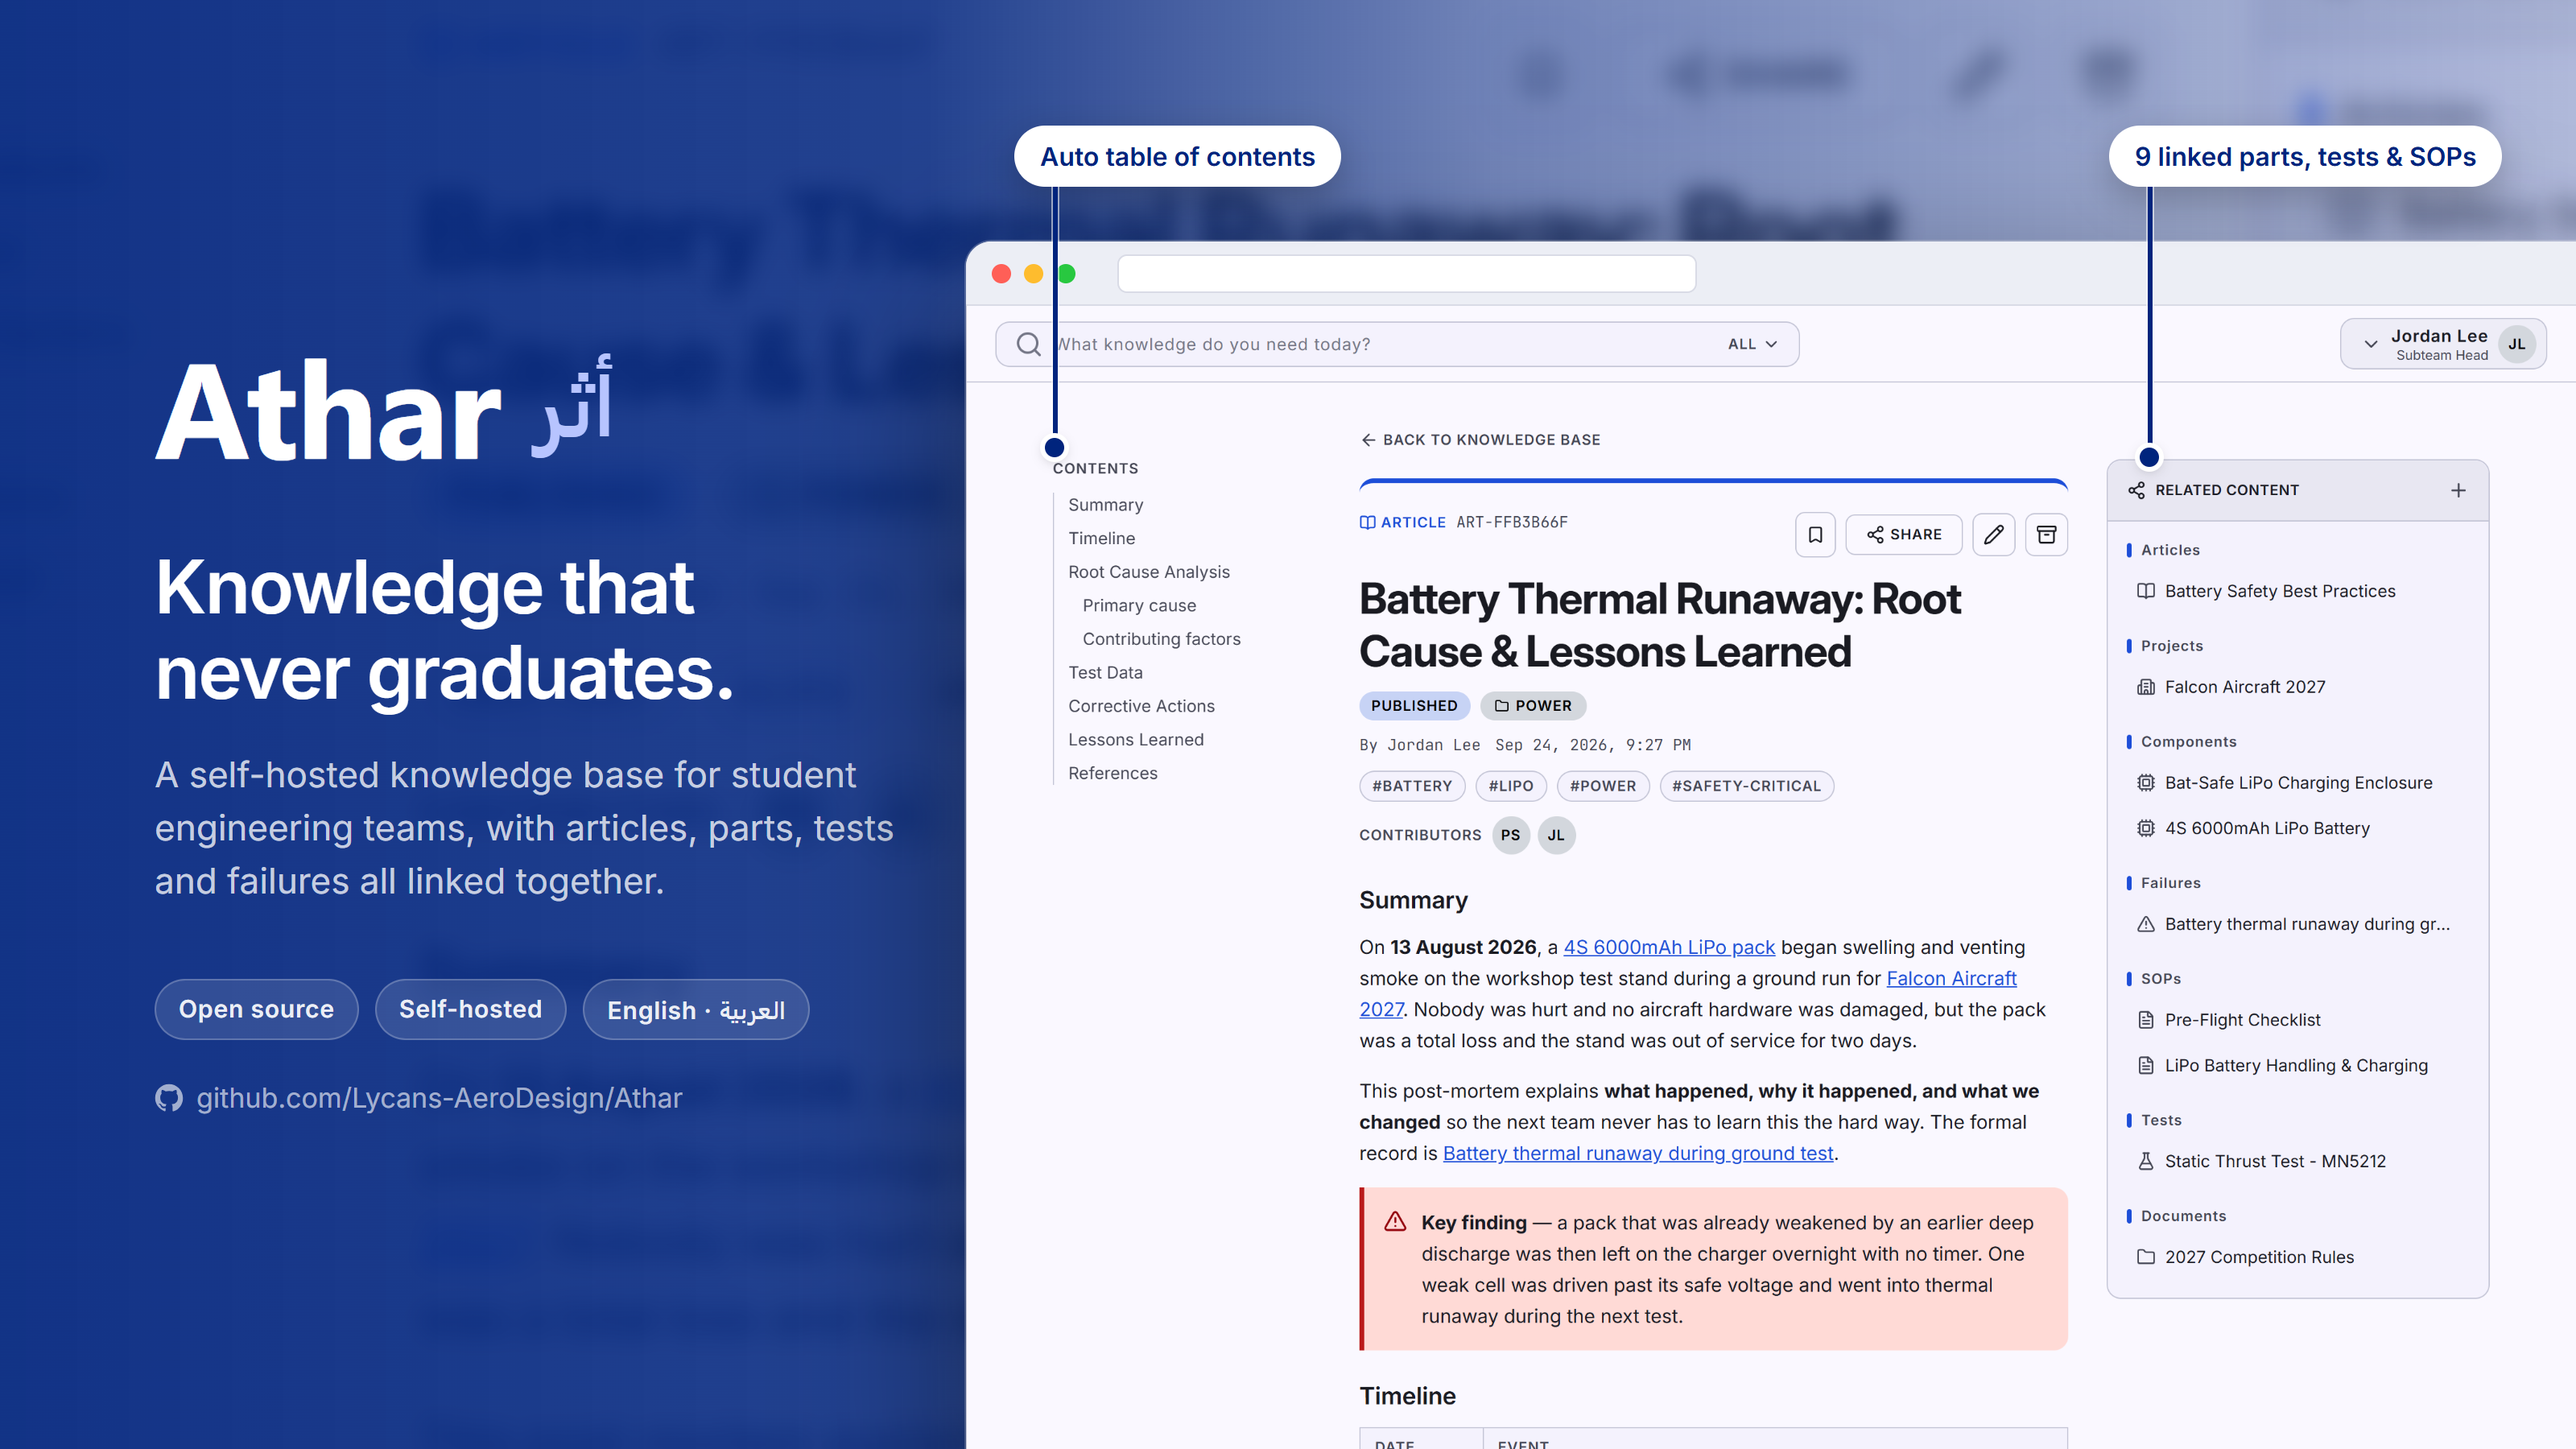
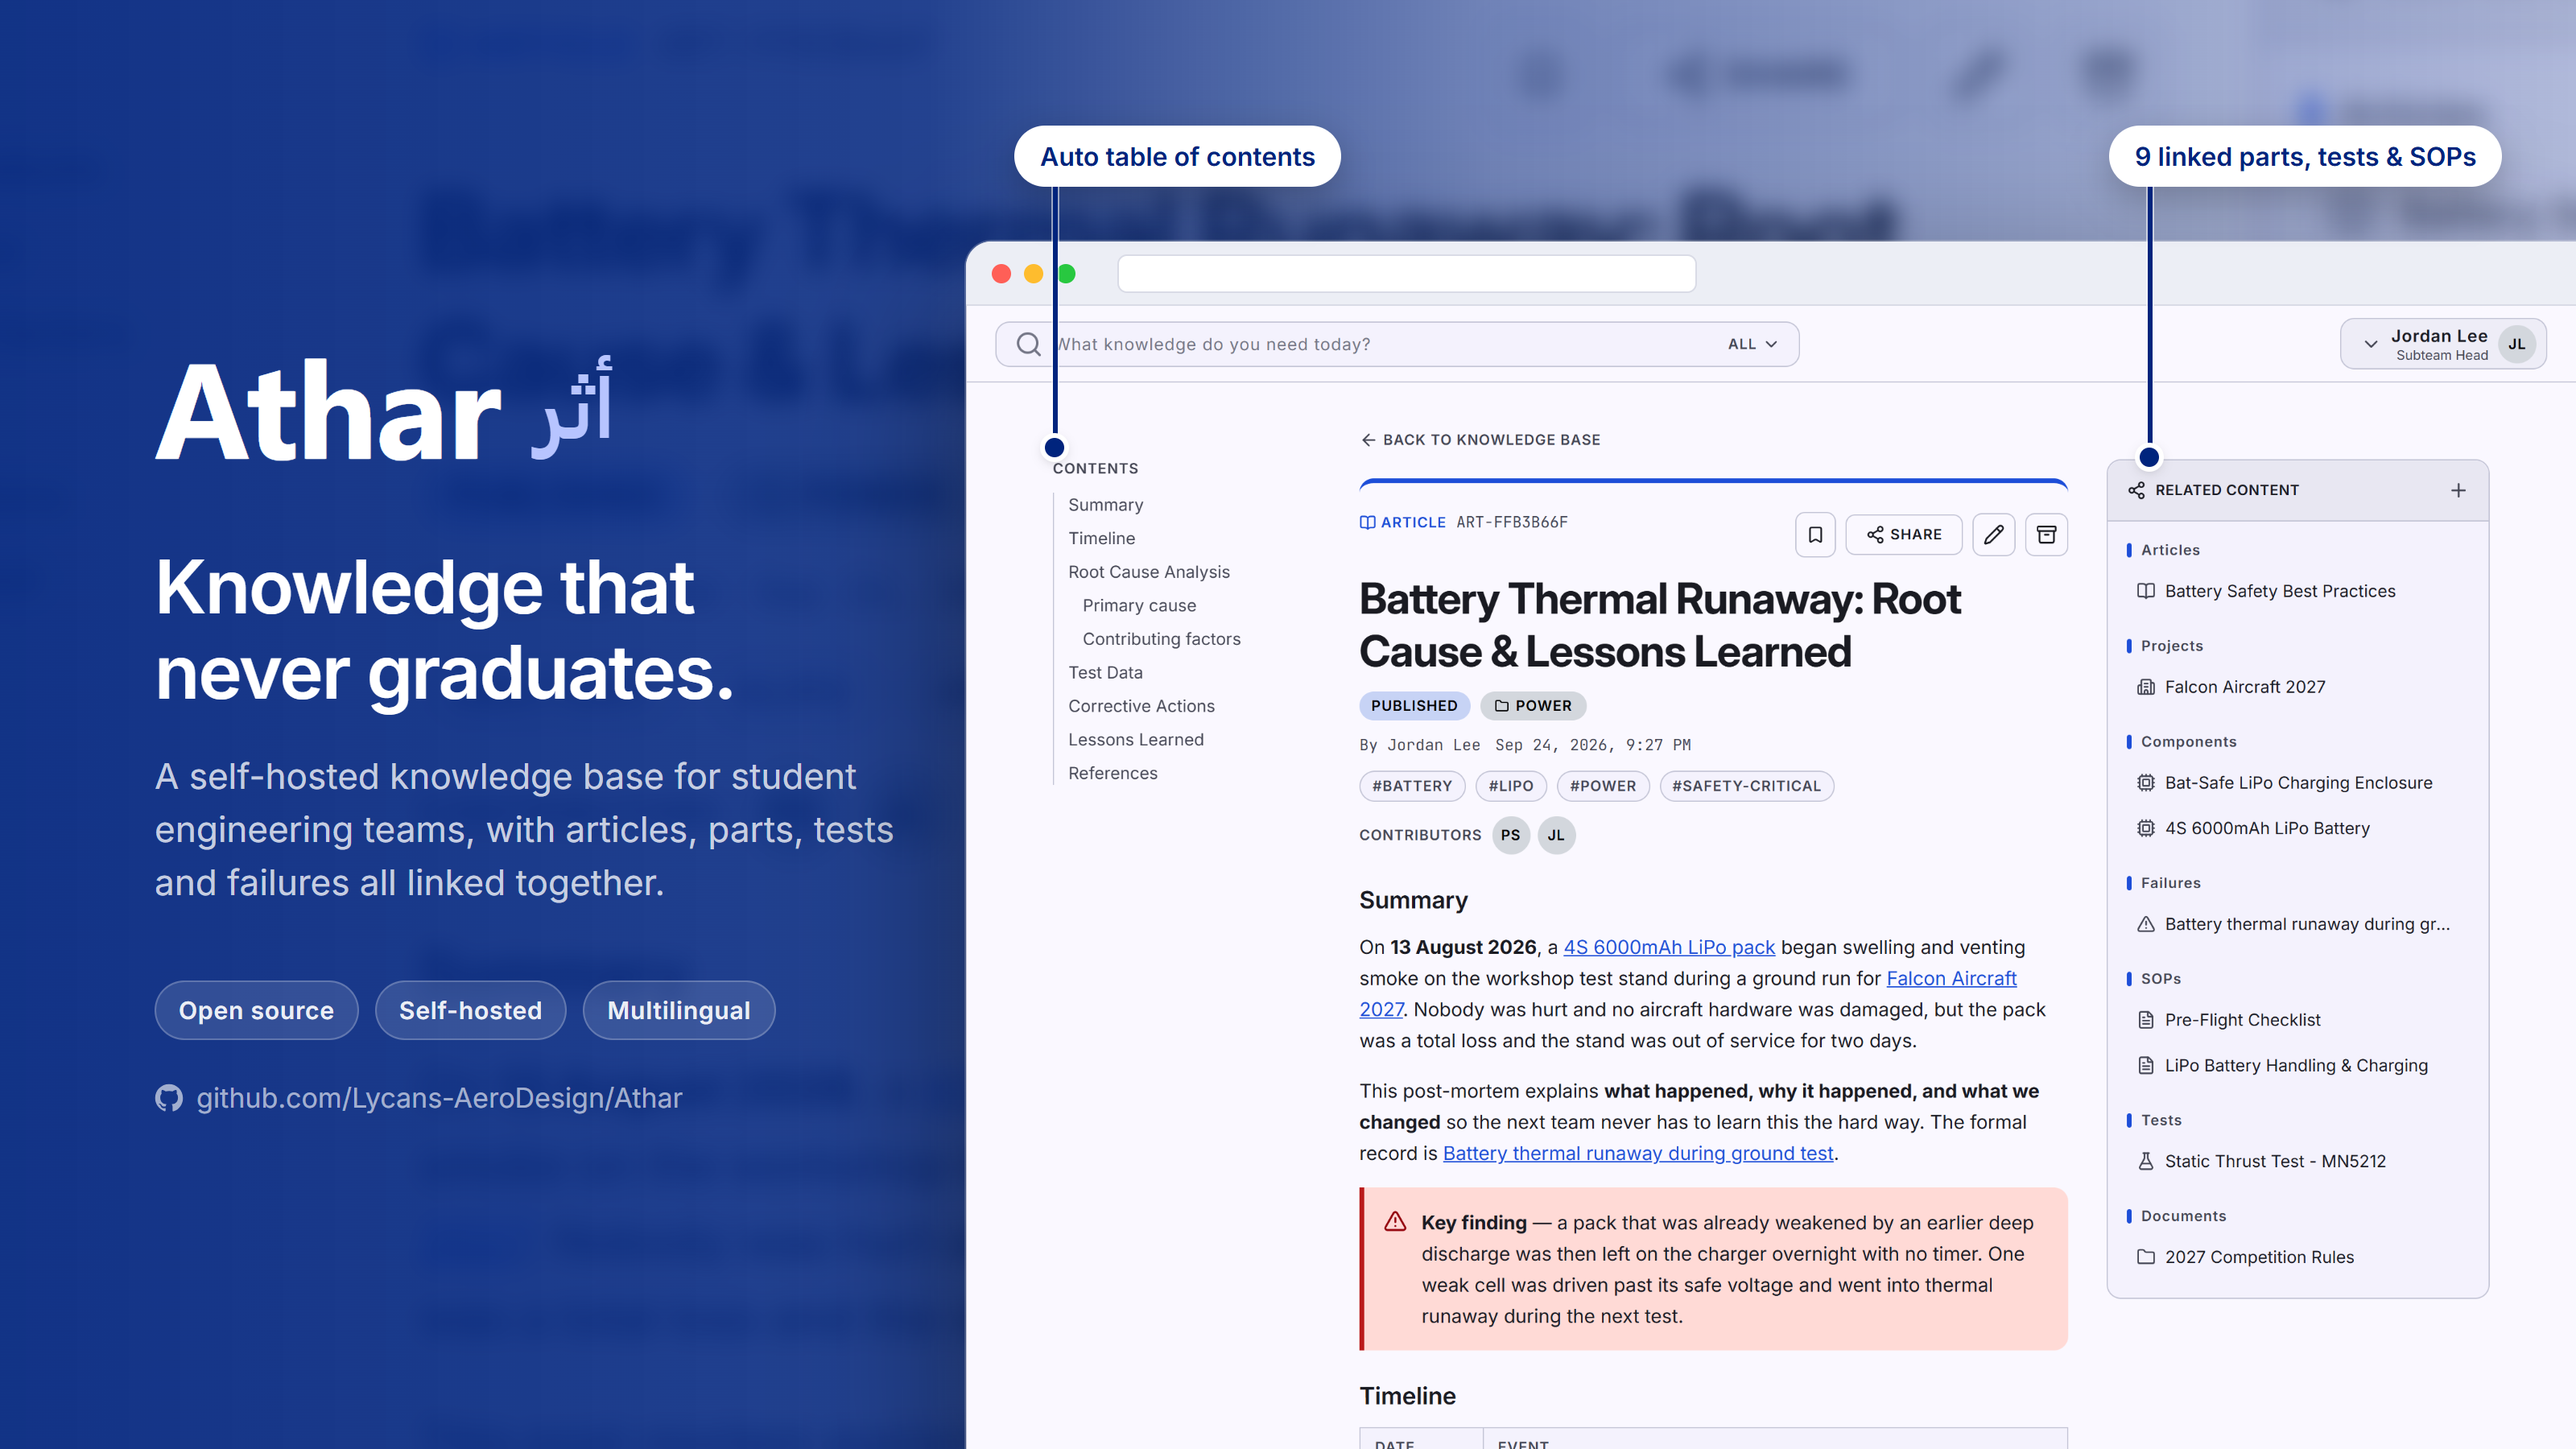
fix(frontend): resolve eslint rules for hooks, a11y, and unused imports
Resolve react-hooks/set-state-in-effect in CurriculumList, AuthenticatedImage, and ImageCropModal by avoiding synchronous setState in effects. Update crop resize handles to button elements for a11y compliance. Clean up unused imports and directives.

diff --git a/frontend/components/ui/ImageCropModal.tsx b/frontend/components/ui/ImageCropModal.tsx
@@ -62,22 +62,25 @@ export function ImageCropModal({
   const imageRef = useRef<HTMLImageElement | null>(null);
   const dragActionRef = useRef<DragAction | null>(null);
 
+  const [prevFile, setPrevFile] = useState<File | null>(file);
   const [displaySize, setDisplaySize] = useState({ w: 0, h: 0 });
   const [naturalSize, setNaturalSize] = useState({ w: 0, h: 0 });
   const [selection, setSelection] = useState<Rect | null>(null);
   const [loadFailed, setLoadFailed] = useState(false);
 
+  if (file !== prevFile) {
+    setPrevFile(file);
+    setDisplaySize({ w: 0, h: 0 });
+    setNaturalSize({ w: 0, h: 0 });
+    setSelection(null);
+    setLoadFailed(false);
+  }
+
   useEffect(() => {
     if (!file) {
       imageRef.current = null;
-      setDisplaySize({ w: 0, h: 0 });
-      setNaturalSize({ w: 0, h: 0 });
-      setSelection(null);
-      setLoadFailed(false);
       return;
     }
-    setSelection(null);
-    setLoadFailed(false);
     const url = URL.createObjectURL(file);
     const img = new Image();
     imageRef.current = img;
@@ -466,26 +469,26 @@ export function ImageCropModal({
                   )}
 
                   {/* Corner Anchors */}
-                  <div
-                    role="slider"
+                  <button
+                    type="button"
                     aria-label="Resize Top Left"
                     className="absolute -top-2 -left-2 w-4 h-4 bg-white border-2 border-primary rounded-full shadow-md cursor-nwse-resize hover:scale-125 transition-transform z-20"
                     onPointerDown={(e) => handleAnchorPointerDown(e, "nw")}
                   />
-                  <div
-                    role="slider"
+                  <button
+                    type="button"
                     aria-label="Resize Top Right"
                     className="absolute -top-2 -right-2 w-4 h-4 bg-white border-2 border-primary rounded-full shadow-md cursor-nesw-resize hover:scale-125 transition-transform z-20"
                     onPointerDown={(e) => handleAnchorPointerDown(e, "ne")}
                   />
-                  <div
-                    role="slider"
+                  <button
+                    type="button"
                     aria-label="Resize Bottom Right"
                     className="absolute -bottom-2 -right-2 w-4 h-4 bg-white border-2 border-primary rounded-full shadow-md cursor-nwse-resize hover:scale-125 transition-transform z-20"
                     onPointerDown={(e) => handleAnchorPointerDown(e, "se")}
                   />
-                  <div
-                    role="slider"
+                  <button
+                    type="button"
                     aria-label="Resize Bottom Left"
                     className="absolute -bottom-2 -left-2 w-4 h-4 bg-white border-2 border-primary rounded-full shadow-md cursor-nesw-resize hover:scale-125 transition-transform z-20"
                     onPointerDown={(e) => handleAnchorPointerDown(e, "sw")}
@@ -494,26 +497,26 @@ export function ImageCropModal({
                   {/* Edge Anchors (Available for freeform crops) */}
                   {!aspectRatio && (
                     <>
-                      <div
-                        role="slider"
+                      <button
+                        type="button"
                         aria-label="Resize Top"
                         className="absolute -top-2 left-1/2 -translate-x-1/2 w-4 h-4 bg-white border-2 border-primary rounded-full shadow-md cursor-ns-resize hover:scale-125 transition-transform z-20"
                         onPointerDown={(e) => handleAnchorPointerDown(e, "n")}
                       />
-                      <div
-                        role="slider"
+                      <button
+                        type="button"
                         aria-label="Resize Right"
                         className="absolute top-1/2 -right-2 -translate-y-1/2 w-4 h-4 bg-white border-2 border-primary rounded-full shadow-md cursor-ew-resize hover:scale-125 transition-transform z-20"
                         onPointerDown={(e) => handleAnchorPointerDown(e, "e")}
                       />
-                      <div
-                        role="slider"
+                      <button
+                        type="button"
                         aria-label="Resize Bottom"
                         className="absolute -bottom-2 left-1/2 -translate-x-1/2 w-4 h-4 bg-white border-2 border-primary rounded-full shadow-md cursor-ns-resize hover:scale-125 transition-transform z-20"
                         onPointerDown={(e) => handleAnchorPointerDown(e, "s")}
                       />
-                      <div
-                        role="slider"
+                      <button
+                        type="button"
                         aria-label="Resize Left"
                         className="absolute top-1/2 -left-2 -translate-y-1/2 w-4 h-4 bg-white border-2 border-primary rounded-full shadow-md cursor-ew-resize hover:scale-125 transition-transform z-20"
                         onPointerDown={(e) => handleAnchorPointerDown(e, "w")}

diff --git a/frontend/components/training/CurriculumList.tsx b/frontend/components/training/CurriculumList.tsx
@@ -40,15 +40,18 @@ export function CurriculumList({
     return Object.fromEntries(modules.map((m) => [m.id, true]));
   });
 
-  // Whenever the active lesson changes, collapse other chapters and open the active one
-  useEffect(() => {
-    if (variant === "sidebar" && activeLessonId) {
+  const [prevActiveLessonId, setPrevActiveLessonId] = useState(activeLessonId);
+
+  // In sidebar mode, whenever the active lesson changes, collapse other chapters and open the active one
+  if (variant === "sidebar" && activeLessonId !== prevActiveLessonId) {
+    setPrevActiveLessonId(activeLessonId);
+    if (activeLessonId) {
       const activeMod = modules.find((m) => m.lessons.some((l) => l.id === activeLessonId));
       if (activeMod) {
         setOpenModules({ [activeMod.id]: true });
       }
     }
-  }, [activeLessonId, variant, modules]);
+  }
 
   // Keep focus on the selected lesson in the left sidebar
   useEffect(() => {

diff --git a/frontend/components/ui/AuthenticatedImage.tsx b/frontend/components/ui/AuthenticatedImage.tsx
@@ -33,7 +33,6 @@ export function AuthenticatedImage({ src, alt, className, fallback }: Authentica
 
   useEffect(() => {
     if (!src || !src.trim()) {
-      setResult({ src, url: null });
       return;
     }
 
@@ -62,6 +61,10 @@ export function AuthenticatedImage({ src, alt, className, fallback }: Authentica
   }, [src]);
 
   const current = result?.src === src ? result : null;
+
+  if (!src || !src.trim()) {
+    return fallback !== undefined ? fallback : null;
+  }
 
   if (current?.url === null && fallback !== undefined) {
     return fallback;

diff --git a/frontend/lib/auth/redirect.ts b/frontend/lib/auth/redirect.ts
@@ -8,7 +8,6 @@ export function redirectToLogin() {
     const loginUrl = cleanPath && cleanPath !== "/" && !cleanPath.startsWith("/login")
       ? `/login?next=${encodeURIComponent(cleanPath)}`
       : "/login";
-    // eslint-disable-next-line @next/next/no-location-assign-relative-destination -- runs outside the React tree (lib/api/client.ts), so useRouter() isn't available; a full navigation is also required here to force protected components to unmount.
     window.location.href = loginUrl;
   }
 }

diff --git a/frontend/lib/training/curriculumParser.ts b/frontend/lib/training/curriculumParser.ts
@@ -42,7 +42,7 @@ export function parseCurriculumText(rawText: string): {
   const modules: ImportCurriculumModule[] = [];
   let currentModule: ImportCurriculumModule | null = null;
   let currentLesson: ImportCurriculumModule["lessons"][0] | null = null;
-  let preModuleLines: string[] = [];
+  const preModuleLines: string[] = [];
 
   const isModuleHeading = (line: string): boolean => {
     // Matches "1. Title", "1) Title", "Chapter 1", "Module 1", "## Title"

diff --git a/frontend/components/ui/Markdown.test.tsx b/frontend/components/ui/Markdown.test.tsx
@@ -1,4 +1,4 @@
-import { cleanup, render, screen, waitFor } from "@testing-library/react";
+import { cleanup, render, screen } from "@testing-library/react";
 import { NextIntlClientProvider } from "next-intl";
 import { afterEach, describe, expect, it, vi } from "vitest";
 
